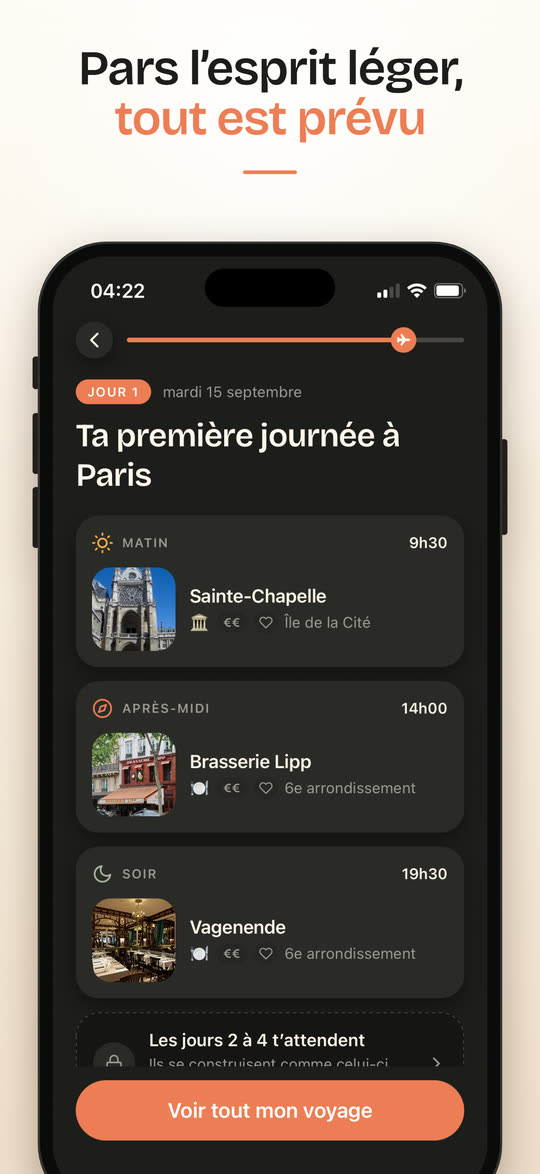
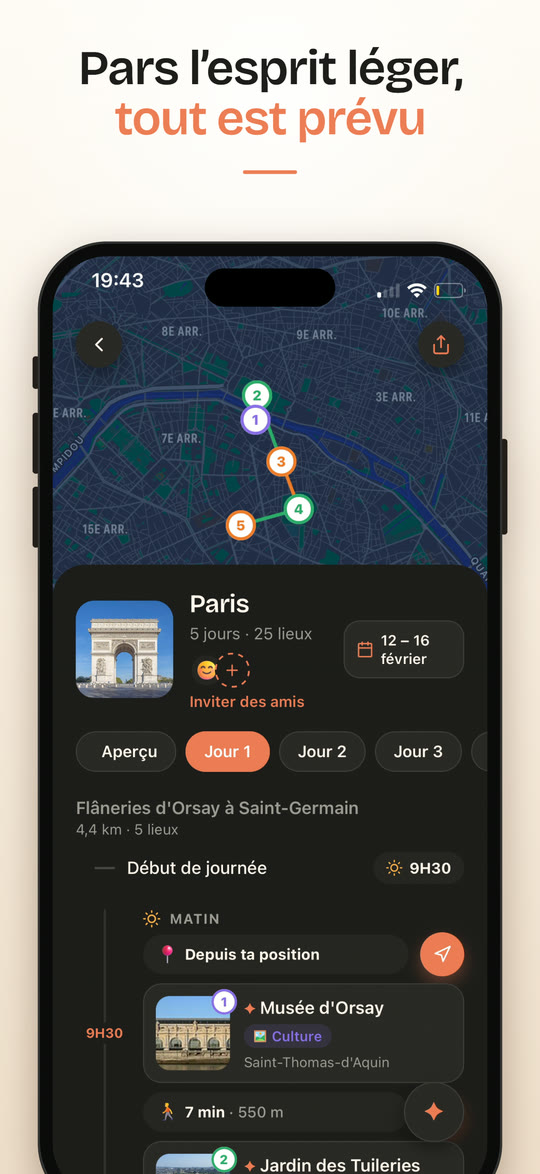
La page du lien de la bio (traverse-app.fr/app) montre dans le téléphone la nouvelle version de l'app (1.1.0) : la première image de la fiche App Store, avec la carte et la journée heure par heure, à la place de l'ancien aperçu du Jour 1.

diff --git a/app.html b/app.html
@@ -129,7 +129,7 @@
   </a>
   <p class="sous-bouton">Sur l'App Store · iPhone</p>
 
-  <img class="ecran" src="images/ecran-01.jpg" alt="Ta première journée à Paris : matin, après-midi et soir" width="540" height="1173">
+  <img class="ecran" src="images/ecran-01.jpg?v=2" alt="Un voyage à Paris dans Traverse : la carte des adresses et la journée heure par heure" width="540" height="1174">
 
   <footer>
     <a href="support.html">Assistance</a> · <a href="index.html">Confidentialité et mentions légales</a>
